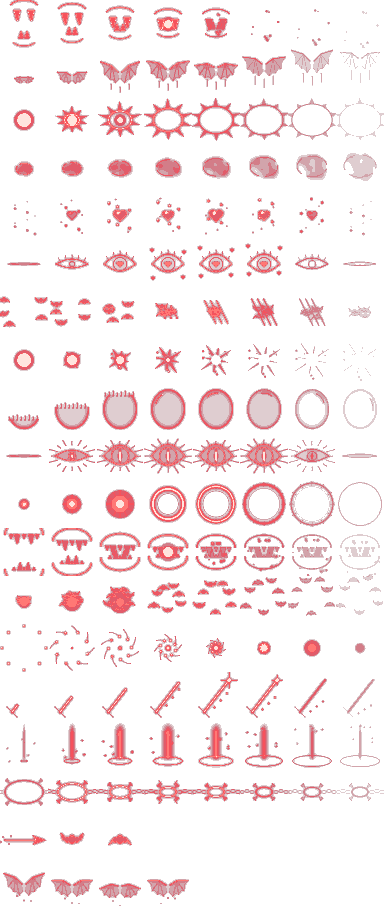
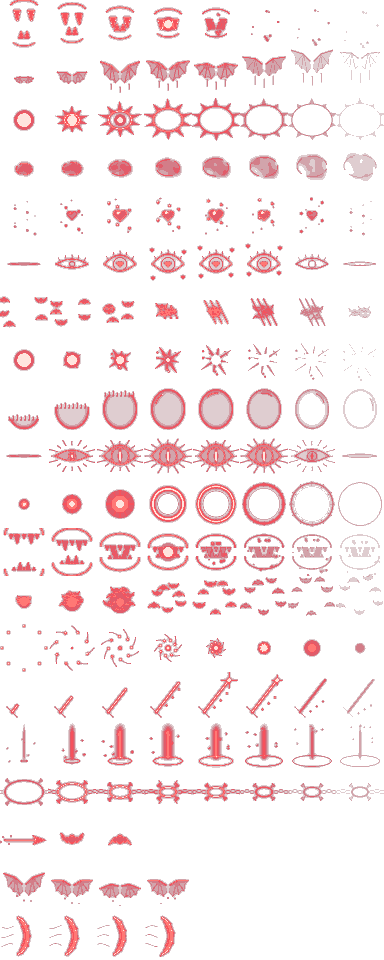
뱀파이어: 갑옷 능력 이펙트를 명암 도트로 다시 그림(핏빛 수정 말뚝·꿰뚫린 심장, 고동치는 심장·핏빛 박쥐 날개·핏빛 물결), 진조의 왕관은 얇은 은빛 왕관이 머리 위에서 천천히 돎. 핏빛 강하를 진조 흡혈귀 기술로 옮겨 강화(6턴, 큰 피해, 불구 3턴)하고 박쥐 변신 삭제, 시작 기술에 피의 참격 추가. 수호의 반지 껍데기를 유물수집가·뱀파이어 맞춤형으로
Claude-Session: https://claude.ai/code/session_01APSKFNB8xpLfNtbCfNBsyA

diff --git a/core/src/main/java/com/shatteredpixel/shatteredpixeldungeon/effects/VampireFX.java b/core/src/main/java/com/shatteredpixel/shatteredpixeldungeon/effects/VampireFX.java
@@ -26,15 +26,19 @@ import com.watabou.utils.PointF;
 public class VampireFX extends Image {
 
 	public static final int BITE = 0, WINGS = 1, SLAM = 2, MIST = 3, MEND = 4, CHARM = 5, BATS = 6, SPLASH = 7, VEIL = 8,
-			DREAD = 9, NOVA = 10, JAWS = 11, BATBURST = 12, SIPHON = 13, BLADE = 14, INFUSE = 15, SHACKLE = 16, PROJ = 17, AURA = 18;
+			DREAD = 9, NOVA = 10, JAWS = 11, BATBURST = 12, SIPHON = 13, BLADE = 14, INFUSE = 15, SHACKLE = 16, PROJ = 17, AURA = 18,
+			SLASH_WAVE = 19;
 
 	public static final String SHEET = "effects/vampire_fx.png";
 	private static final int SIZE = 48, FRAMES = 8;
 
 	//갑옷 능력 전용 큰 이펙트 (effects/vampire_fx_big.png, 96x96 칸, 한 줄에 10장)
+	// 명암을 살린 도트라 빛 섞기 없이 보통으로 그림
 	public static final String BIG_SHEET = "effects/vampire_fx_big.png";
 	private static final int BIG_SIZE = 96, BIG_FRAMES = 10;
-	public static final int B_CHARGE = 0, B_STAKE = 1, B_IMPACT = 2, B_CROWN = 3, B_SIGIL = 4, B_HEART = 5, B_REVIVE = 6, B_AURA = 7;
+	public static final int B_CHARGE = 0, B_STAKE = 1, B_IMPACT = 2, B_SPARKLE = 3, B_RISE = 4, B_HEART = 5, B_REVIVE = 6, B_AURA = 7;
+
+	private boolean light = true;
 
 	private final TextureFilm film;
 	private final int size, frames;
@@ -70,12 +74,14 @@ public class VampireFX extends Image {
 	//큰 이펙트: 칸 가운데 / 캐릭터를 따라다니며 (size 1 = 6칸 너비)
 	public static VampireFX atBig( int cell, int row, float size, float dur ){
 		VampireFX fx = new VampireFX( BIG_SHEET, BIG_SIZE, BIG_FRAMES, row, null, DungeonTilemap.raisedTileCenterToWorld( cell ), size, dur );
+		fx.light = false;
 		GameScene.effect( fx );
 		return fx;
 	}
 
 	public static VampireFX onBig( CharSprite sprite, int row, float size, float dur ){
 		VampireFX fx = new VampireFX( BIG_SHEET, BIG_SIZE, BIG_FRAMES, row, sprite, sprite != null ? sprite.center() : new PointF(), size, dur );
+		fx.light = false;
 		if (sprite != null) GameScene.effect( fx );
 		return fx;
 	}
@@ -102,6 +108,10 @@ public class VampireFX extends Image {
 
 	@Override
 	public void draw() {
+		if (!light){
+			super.draw();
+			return;
+		}
 		Blending.setLightMode();
 		super.draw();
 		Blending.setNormalMode();
@@ -130,7 +140,7 @@ public class VampireFX extends Image {
 	//날아가는 것: 피의 창(날아가는 쪽으로 돌려 그림), 박쥐(날갯짓하며 날아감). 닿으면 callback
 	public static class Projectile extends Image {
 
-		public static final int LANCE = 0, BAT = 1, STAKE = 2;
+		public static final int LANCE = 0, BAT = 1, STAKE = 2, SLASH = 3;
 
 		private final TextureFilm film;
 		private final int kind;
@@ -157,6 +167,10 @@ public class VampireFX extends Image {
 				angle = (float)(Math.atan2( to.y - from.y, to.x - from.x ) * 180 / Math.PI);
 				scale.set( 0.45f );
 				frame( film.get( B_STAKE * BIG_FRAMES ) );
+			} else if (kind == SLASH){
+				angle = (float)(Math.atan2( to.y - from.y, to.x - from.x ) * 180 / Math.PI);
+				scale.set( 0.75f );
+				frame( film.get( SLASH_WAVE * FRAMES ) );
 			} else if (kind == LANCE){
 				angle = (float)(Math.atan2( to.y - from.y, to.x - from.x ) * 180 / Math.PI);
 				scale.set( 0.6f );
@@ -170,6 +184,10 @@ public class VampireFX extends Image {
 
 		@Override
 		public void draw() {
+			if (kind == STAKE){
+				super.draw();
+				return;
+			}
 			Blending.setLightMode();
 			super.draw();
 			Blending.setNormalMode();
@@ -191,6 +209,8 @@ public class VampireFX extends Image {
 			y = from.y + (to.y - from.y) * p - cell / 2f;
 			if (kind == STAKE){
 				frame( film.get( B_STAKE * BIG_FRAMES + ((int)(t / 0.06f) % 4) ) );
+			} else if (kind == SLASH){
+				frame( film.get( SLASH_WAVE * FRAMES + ((int)(t / 0.05f) % 4) ) );
 			}
 			if (kind == BAT){
 				y += (float) Math.sin( p * Math.PI * 3 ) * 2f;
@@ -284,12 +304,6 @@ public class VampireFX extends Image {
 			return follow == s;
 		}
 
-		@Override
-		public void draw() {
-			Blending.setLightMode();
-			super.draw();
-			Blending.setNormalMode();
-		}
 
 		@Override
 		public void update() {
@@ -348,17 +362,25 @@ public class VampireFX extends Image {
 		GameScene.effect( p );
 	}
 
-	//진조의 왕관: 영웅 머리 위에 얹힌 금빛 왕관 (effects/vampire_crown.png, 11x9 두 장, 이따금 보석이 반짝임)
+	//진조의 왕관: 영웅 머리 위에 얹힌 얇은 은빛 왕관 (effects/vampire_crown.png, 36x26 칸 16장)
+	// 쓰는 순간 위에서 천천히 내려와 머리에 얹히고, 그 뒤로는 제자리에서 느리게 돎
 	public static class CrownImage extends Image {
+
+		private static final int CW = 36, CH = 26, CFRAMES = 16;
+		private static final float CSCALE = 0.33f;
 
 		private final TextureFilm film;
 		private final CharSprite follow;
 		private float t = 0;
+		private final boolean descend;
 
-		public CrownImage( CharSprite follow ){
+		public CrownImage( CharSprite follow, boolean descend ){
 			super( "effects/vampire_crown.png" );
-			film = new TextureFilm( texture, 11, 9 );
+			film = new TextureFilm( texture, CW, CH );
 			this.follow = follow;
+			this.descend = descend;
+			com.shatteredpixel.shatteredpixeldungeon.sprites.HeroSprite.smooth( texture );
+			scale.set( CSCALE );
 			frame( film.get( 0 ) );
 			place();
 		}
@@ -367,9 +389,9 @@ public class VampireFX extends Image {
 			return follow == s;
 		}
 
-		public static CrownImage on( CharSprite sprite ){
+		public static CrownImage on( CharSprite sprite, boolean descend ){
 			if (sprite == null) return null;
-			CrownImage c = new CrownImage( sprite );
+			CrownImage c = new CrownImage( sprite, descend );
 			GameScene.effect( c );
 			return c;
 		}
@@ -378,8 +400,13 @@ public class VampireFX extends Image {
 			//64칸 그림에서 머리 꼭대기(약 9칸 아래)에 얹음, 좌우를 뒤집으면 머리 가운데도 따라 옮김
 			float sx = follow.scale.x, sy = follow.scale.y;
 			float headX = follow.flipHorizontal ? 33.5f : 30.5f;
-			x = follow.x + headX * sx - width / 2f;
-			y = follow.y + 9f * sy - height;
+			float drop = 0;
+			if (descend && t < 0.7f){
+				float p = t / 0.7f;
+				drop = -10f * (1 - p) * (1 - p);
+			}
+			x = follow.x + headX * sx - CW * CSCALE / 2f;
+			y = follow.y + 10f * sy - CH * CSCALE + drop;
 		}
 
 		@Override
@@ -391,10 +418,12 @@ public class VampireFX extends Image {
 				return;
 			}
 			t += Game.elapsed;
-			frame( film.get( (t % 2.4f) < 0.25f ? 1 : 0 ) );
+			//초당 5장: 16장이 한 바퀴의 1/4(무늬가 되풀이되는 간격)이라 계속 천천히 도는 것처럼 보임
+			frame( film.get( ((int)(t * 5f)) % CFRAMES ) );
 			place();
 			visible = follow.visible;
-			alpha( follow.alpha() );
+			float fade = descend ? Math.min( 1f, t / 0.4f ) : 1f;
+			alpha( fade * follow.alpha() );
 		}
 	}
 

diff --git a/core/src/main/java/com/shatteredpixel/shatteredpixeldungeon/items/artifacts/CrimsonGrail.java b/core/src/main/java/com/shatteredpixel/shatteredpixeldungeon/items/artifacts/CrimsonGrail.java
@@ -96,7 +96,7 @@ public class CrimsonGrail extends Artifact {
 	public enum Skill {
 		//처음부터
 		DRAIN( 0, 0, null, null ),
-		DIVE( 5, 0, null, null ),
+		SLASH( 4, 0, null, null ),
 		MIST( 6, 0, null, null ),
 		MEND( 8, 0, null, null ),
 		//1단계 특성
@@ -110,7 +110,7 @@ public class CrimsonGrail extends Artifact {
 		NOVA( 10, 3, Talent.BLOOD_NOVA, null ),
 		//진조 흡혈귀
 		FEAST( 6, 3, null, HeroSubClass.TRUE_ANCESTOR ),
-		BATFORM( 8, 3, null, HeroSubClass.TRUE_ANCESTOR ),
+		DIVE( 7, 3, null, HeroSubClass.TRUE_ANCESTOR ),
 		MASS_DRAIN( 8, 3, Talent.MASS_DRAIN, null ),
 		//피의 지배자
 		BLADE( 5, 3, null, HeroSubClass.BLOOD_LORD ),
@@ -429,8 +429,44 @@ public class CrimsonGrail extends Artifact {
 				} );
 				break;
 
+			case SLASH:
+				//보이는 적을 향해 핏빛 검기를 날려, 5칸 안 직선 위의 적 모두에게 피해와 약한 출혈
+				pickEnemy( hero, skill, 5, new OnTarget() {
+					@Override
+					public void hit( Char target, final int cell ) {
+						spend( hero, skill );
+						Invisibility.dispel();
+						hero.busy();
+						final Ballistica line = new Ballistica( hero.pos, cell, Ballistica.STOP_SOLID );
+						final int reach = Math.max( 1, Math.min( line.dist, 5 ) );
+						final int endCell = line.path.get( reach );
+						hero.sprite.attack( cell, new Callback() {
+							@Override
+							public void call() {
+								Sample.INSTANCE.play( Assets.Sounds.HIT_SLASH, 1f, 0.8f );
+								VampireFX.shoot( VampireFX.Projectile.SLASH, hero.sprite.center(),
+										com.shatteredpixel.shatteredpixeldungeon.tiles.DungeonTilemap.raisedTileCenterToWorld( endCell ), 0f, new Callback() {
+									@Override
+									public void call() {
+										for (int c : line.subPath( 1, reach )){
+											Char ch = Actor.findChar( c );
+											if (ch == null || ch == hero || ch.alignment == Char.Alignment.ALLY) continue;
+											int dmg = Random.NormalIntRange( 2 + lvl / 3, 5 + lvl * 2 / 3 );
+											ch.damage( dmg, CrimsonGrail.this );
+											VampireFX.at( c, VampireFX.SPLASH, 0.45f, 0.35f );
+											if (ch.isAlive() && isLiving( ch )) Buff.affect( ch, Bleeding.class ).set( Math.max( 1f, dmg * 0.3f ) );
+										}
+										finish( hero, 1f );
+									}
+								} );
+							}
+						} );
+					}
+				} );
+				break;
+
 			case DIVE:
-				//4턴 동안 떠오른 뒤, 내려앉으며 주변 8칸에 피해 (BloodFlight)
+				//진조 흡혈귀: 6턴 동안 떠오른 뒤, 내려앉으며 주변 8칸에 큰 피해 (BloodFlight)
 				spend( hero, skill );
 				BloodWings.fly( hero, BloodFlight.class, BloodFlight.TURNS );
 				VampireFX.on( hero.sprite, VampireFX.WINGS, 0.8f, 0.5f ).rise( 6f );
@@ -655,17 +691,6 @@ public class CrimsonGrail extends Artifact {
 						} );
 					}
 				} );
-				break;
-
-			case BATFORM:
-				spend( hero, skill );
-				//박쥐로 변해 8턴 동안 날고 6턴 동안 가속
-				BloodWings.fly( hero, BloodWings.class, 8f );
-				Buff.affect( hero, Haste.class, 6f );
-				VampireFX.on( hero.sprite, VampireFX.BATBURST, 0.9f, 0.6f );
-				hero.sprite.emitter().burst( ShadowParticle.CURSE, 6 );
-				Sample.INSTANCE.play( Assets.Sounds.MELD );
-				finish( hero, 1f );
 				break;
 
 			case MASS_DRAIN: {

diff --git a/core/src/main/java/com/shatteredpixel/shatteredpixeldungeon/effects/AegisShell.java b/core/src/main/java/com/shatteredpixel/shatteredpixeldungeon/effects/AegisShell.java
@@ -27,10 +27,27 @@ public class AegisShell extends Image {
 	private float time = 0;
 	private int lastIndex = -1;
 
+	//세밀한 도트 영웅용: 영웅 그림과 같은 64x64 칸·같은 순서로 그린 맞춤 껍데기
+	private boolean hd = false;
+
 	public AegisShell( CharSprite target, String tex ){
 		super( tex );
 		this.target = target;
 		film = new TextureFilm( texture, W, H );
+		frame( film.get( 0 ) );
+	}
+
+	public AegisShell( CharSprite target, String tex, boolean hd ){
+		super( tex );
+		this.target = target;
+		this.hd = hd;
+		if (hd){
+			film = new TextureFilm( texture, com.shatteredpixel.shatteredpixeldungeon.sprites.HeroSprite.HD_WIDTH,
+					com.shatteredpixel.shatteredpixeldungeon.sprites.HeroSprite.HD_HEIGHT );
+			com.shatteredpixel.shatteredpixeldungeon.sprites.HeroSprite.smooth( texture );
+		} else {
+			film = new TextureFilm( texture, W, H );
+		}
 		frame( film.get( 0 ) );
 	}
 
@@ -54,6 +71,23 @@ public class AegisShell extends Image {
 	//위치·프레임 맞추기. 영웅의 이동 트위너가 이 그림보다 늦게 갱신될 수 있어,
 	//그리기 직전에도 한 번 더 맞춰 한 프레임씩 뒤처지지 않게 함
 	private void sync(){
+		if (hd){
+			//영웅 그림의 지금 칸과 같은 칸을 같은 크기·같은 자리에 씌움
+			int idx = heroIndex();
+			visible = target.visible;
+			if (!visible) return;
+			if (idx != lastIndex && film.get( idx ) != null){
+				frame( film.get( idx ) );
+				lastIndex = idx;
+			}
+			flipHorizontal = target.flipHorizontal;
+			scale.set( target.scale );
+			origin.set( target.origin );
+			angle = target.angle;
+			x = target.x;
+			y = target.y;
+			return;
+		}
 		boolean big = target.width() > HERO_W * 1.2f;
 		//세밀한 큰 도트 영웅은 동작 순서가 달라 갑옷은 서 있는 모습 하나로 씌움
 		int idx = big ? 0 : heroIndex();

diff --git a/core/src/main/java/com/shatteredpixel/shatteredpixeldungeon/actors/buffs/BloodFlight.java b/core/src/main/java/com/shatteredpixel/shatteredpixeldungeon/actors/buffs/BloodFlight.java
@@ -23,10 +23,10 @@ import com.watabou.noosa.audio.Sample;
 import com.watabou.utils.PathFinder;
 import com.watabou.utils.Random;
 
-//짧게 떠올랐다가, 끝나면 내려앉으며 주변 8칸의 적에게 피해를 주고 2턴 동안 불구로 만듦
+//진조 흡혈귀의 기술: 6턴 동안 떠올랐다가, 끝나면 내려앉으며 주변 8칸의 적에게 큰 피해를 주고 3턴 동안 불구로 만듦
 public class BloodFlight extends BloodWings {
 
-	public static final float TURNS = 4f;
+	public static final float TURNS = 6f;
 
 	@Override
 	public void detach() {
@@ -39,13 +39,13 @@ public class BloodFlight extends BloodWings {
 		for (int n : PathFinder.NEIGHBOURS8){
 			Char e = Actor.findChar( ch.pos + n );
 			if (e != null && e.alignment != ch.alignment && e.alignment != Char.Alignment.NEUTRAL){
-				e.damage( Random.NormalIntRange( 3 + lvl / 3, 6 + lvl * 2 / 3 ), this );
-				if (e.isAlive()) Buff.prolong( e, Cripple.class, 2f );
+				e.damage( Random.NormalIntRange( 6 + lvl / 2, 12 + lvl ), this );
+				if (e.isAlive()) Buff.prolong( e, Cripple.class, 3f );
 				if (e.sprite != null) e.sprite.emitter().burst( BloodParticle.BURST, 6 );
 				hit = true;
 			}
 		}
-		com.shatteredpixel.shatteredpixeldungeon.effects.VampireFX.at( ch.pos, com.shatteredpixel.shatteredpixeldungeon.effects.VampireFX.SLAM, 0.9f, 0.45f ).grow( 1.05f );
+		com.shatteredpixel.shatteredpixeldungeon.effects.VampireFX.at( ch.pos, com.shatteredpixel.shatteredpixeldungeon.effects.VampireFX.SLAM, 1.0f, 0.5f ).grow( 1.2f );
 		Sample.INSTANCE.play( Assets.Sounds.BLAST, hit ? 1f : 0.6f, 1.2f );
 		if (ch == Dungeon.hero) PixelScene.shake( 1.5f, 0.3f );
 	}

diff --git a/core/src/main/java/com/shatteredpixel/shatteredpixeldungeon/actors/hero/abilities/vampire/UndyingBlood.java b/core/src/main/java/com/shatteredpixel/shatteredpixeldungeon/actors/hero/abilities/vampire/UndyingBlood.java
@@ -63,7 +63,8 @@ public class UndyingBlood extends ArmorAbility {
 
 		hero.sprite.operate( hero.pos );
 		//커다란 심장이 두 번 고동치며 핏줄이 뻗어 나감
-		VampireFX.onBig( hero.sprite, VampireFX.B_HEART, 0.5f, 0.9f ).offset( 0, -2f );
+		VampireFX.onBig( hero.sprite, VampireFX.B_HEART, 0.42f, 0.9f ).offset( 0, -10f );
+		VampireFX.onBig( hero.sprite, VampireFX.B_RISE, 0.45f, 0.9f ).offset( 0, -6f );
 		Sample.INSTANCE.play( Assets.Sounds.DRINK );
 		Sample.INSTANCE.play( Assets.Sounds.CHARGEUP, 0.8f, 0.6f );
 
@@ -108,8 +109,8 @@ public class UndyingBlood extends ArmorAbility {
 		if (hero.sprite != null){
 			hero.sprite.idle();
 			//빛기둥이 솟고 거대한 날개가 펼쳐지며 발밑에 고리가 퍼짐
-			VampireFX.onBig( hero.sprite, VampireFX.B_REVIVE, 0.62f, 0.95f ).offset( 0, -8f );
-			VampireFX.onBig( hero.sprite, VampireFX.B_HEART, 0.4f, 0.7f ).delay( 0.25f );
+			VampireFX.onBig( hero.sprite, VampireFX.B_REVIVE, 0.6f, 1.0f ).offset( 0, -6f );
+			VampireFX.onBig( hero.sprite, VampireFX.B_HEART, 0.36f, 0.7f ).offset( 0, -14f ).delay( 0.3f );
 			hero.sprite.showStatus( CharSprite.POSITIVE, Messages.get( UndyingBlood.class, "revived_status" ) );
 		}
 		GameScene.flash( 0x80CC1030 );

diff --git a/core/src/main/java/com/shatteredpixel/shatteredpixeldungeon/actors/hero/abilities/vampire/CrimsonCrown.java b/core/src/main/java/com/shatteredpixel/shatteredpixeldungeon/actors/hero/abilities/vampire/CrimsonCrown.java
@@ -66,9 +66,8 @@ public class CrimsonCrown extends ArmorAbility {
 		}
 
 		hero.sprite.operate( hero.pos );
-		//발밑에 문양이 돌고, 두 줄기 핏빛 나선이 머리 위로 솟아 왕관으로 맺힘
-		VampireFX.onBig( hero.sprite, VampireFX.B_SIGIL, 0.55f, 1.0f ).offset( 0, -6f );
-		VampireFX.onBig( hero.sprite, VampireFX.B_CROWN, 0.5f, 0.85f ).offset( 0, -5f );
+		//은빛 왕관이 위에서 내려와 머리에 얹히며 둘레에 은빛 별이 반짝임
+		VampireFX.onBig( hero.sprite, VampireFX.B_SPARKLE, 0.45f, 1.0f ).offset( 0, -2f );
 		GameScene.flash( 0x60CC1030 );
 		Sample.INSTANCE.play( Assets.Sounds.CHARGEUP );
 		Sample.INSTANCE.play( Assets.Sounds.LEVELUP, 0.6f, 0.8f );
@@ -169,8 +168,9 @@ public class CrimsonCrown extends ArmorAbility {
 			Crown c = s.ch.buff( Crown.class );
 			if (c == null) return;
 			if (c.image != null && c.image.parent != null && c.image.follows( s )) return;
+			boolean first = c.image == null;
 			if (c.image != null) c.image.killAndErase();
-			c.image = VampireFX.CrownImage.on( s );
+			c.image = VampireFX.CrownImage.on( s, first && c.cooldown() > c.total - 1f );
 		}
 
 		private static final String TOTAL = "total";

diff --git a/core/src/main/java/com/shatteredpixel/shatteredpixeldungeon/actors/buffs/RuneAegisForm.java b/core/src/main/java/com/shatteredpixel/shatteredpixeldungeon/actors/buffs/RuneAegisForm.java
@@ -107,7 +107,16 @@ public class RuneAegisForm extends Buff {
 		if (target == null || target.sprite == null || target.sprite.parent == null) return;
 		if (shell != null && shell.parent != null && shell.target() == target.sprite) return;
 		if (shell != null) shell.killAndErase();
-		shell = new AegisShell( target.sprite, RuneAegis.SHELL );
+		//세밀한 도트 영웅(유물수집가·뱀파이어)은 각자 맞춤 껍데기를 씀
+		com.shatteredpixel.shatteredpixeldungeon.actors.hero.HeroClass look =
+				target instanceof com.shatteredpixel.shatteredpixeldungeon.actors.hero.Hero ? ((com.shatteredpixel.shatteredpixeldungeon.actors.hero.Hero) target).heroClass : null;
+		if (look == com.shatteredpixel.shatteredpixeldungeon.actors.hero.HeroClass.COLLECTOR){
+			shell = new AegisShell( target.sprite, "sprites/collector_aegis.png", true );
+		} else if (look == com.shatteredpixel.shatteredpixeldungeon.actors.hero.HeroClass.VAMPIRE){
+			shell = new AegisShell( target.sprite, "sprites/vampire_aegis.png", true );
+		} else {
+			shell = new AegisShell( target.sprite, RuneAegis.SHELL );
+		}
 		target.sprite.parent.add( shell );
 	}
 
